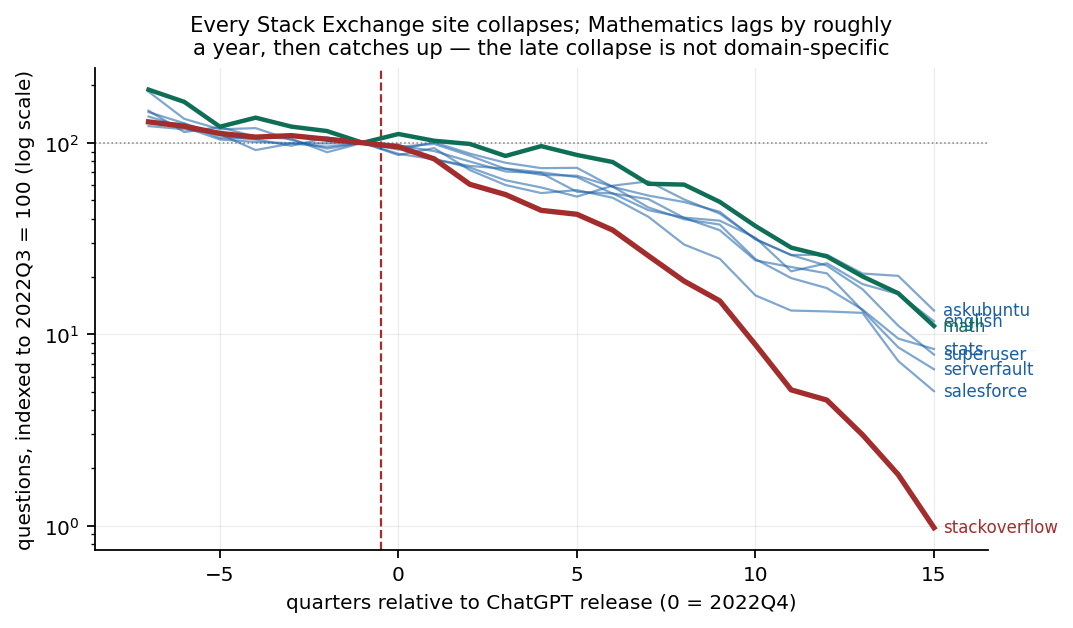
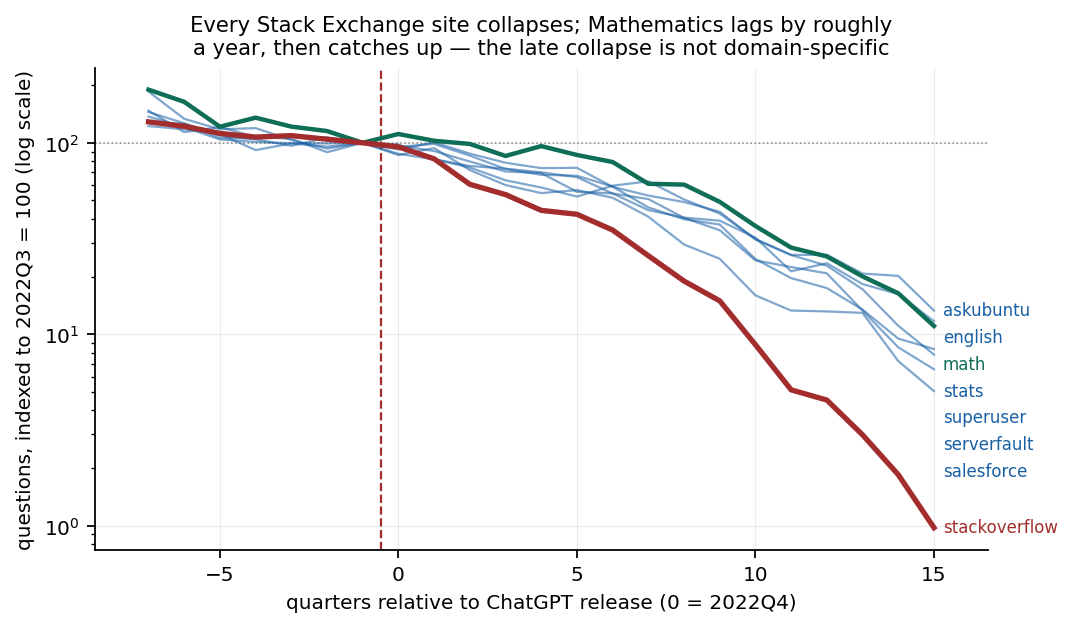
Audit pass 4: fix label overlap in log-scale trajectory figures (fig2, fig7)
All 9 figures now individually verified by visual inspection.
fig7: 7 of 8 site labels were stacked at y~10 and unreadable;
fig2: 6 of 11 domain labels stacked at y~1-2. Both now spread labels
in log10 space with enforced minimum gap.

Changed region(s): [[0.8611, 0.4841, 0.9842, 0.7564]]

diff --git a/src/figures_sites.py b/src/figures_sites.py
@@ -80,6 +80,7 @@ def fig_site_trajectories():
 
     fig, ax = plt.subplots(figsize=(6.8, 4.0))
     xs = rel.sort_index().values
+    entries = []
     for s in w.columns:
         y = w[s].values / w[s].values[base_idx] * 100
         is_so = s == "stackoverflow"
@@ -87,9 +88,22 @@ def fig_site_trajectories():
         ax.plot(xs, y, lw=2.4 if is_so else (2.0 if is_math else 1.0),
                 color=C_SO if is_so else ("#0F6E56" if is_math else C_OTHER),
                 alpha=1.0 if (is_so or is_math) else 0.55, zorder=4 if (is_so or is_math) else 3)
-        ax.annotate(s, (xs[-1], y[-1]), fontsize=7.5, xytext=(4, 0),
-                    textcoords="offset points", va="center",
-                    color=C_SO if is_so else ("#0F6E56" if is_math else C_OTHER))
+        entries.append({"site": s, "y": float(y[-1]),
+                        "color": C_SO if is_so else ("#0F6E56" if is_math else C_OTHER),
+                        "bold": is_so or is_math})
+    # 标签防重叠：除 stackoverflow 外所有站点末期都落在 5-12 的窄带里，
+    # 在 log10 空间自上而下强制最小间距。
+    entries.sort(key=lambda e: -np.log10(e["y"]))
+    min_gap = 0.14
+    lys = [np.log10(e["y"]) for e in entries]
+    for i in range(1, len(lys)):
+        if lys[i - 1] - lys[i] < min_gap:
+            lys[i] = lys[i - 1] - min_gap
+    for e, ly in zip(entries, lys):
+        ax.annotate(e["site"], (xs[-1], 10 ** ly), fontsize=7.5,
+                    xytext=(4, 0), textcoords="offset points",
+                    va="center", color=e["color"],
+                    weight="500" if e["bold"] else "400")
     ax.set_yscale("log")
     ax.axvline(-0.5, color=C_SO, lw=1.0, ls="--")
     ax.axhline(100, color=C_GRAY, lw=0.7, ls=":")

diff --git a/src/figures.py b/src/figures.py
@@ -66,6 +66,7 @@ def fig_trajectories():
     df = df.sort_values("t")
     fig, ax = plt.subplots(figsize=(9.6, 3.8))
     base = df[df["rel"] == -1].set_index("unit")["questions"]
+    entries = []
     for unit, g in df.groupby("unit"):
         grp = g["group"].iloc[0]
         y = g.sort_values("t")["questions"].values / float(base[unit]) * 100
@@ -73,8 +74,20 @@ def fig_trajectories():
         lw = 1.6 if grp == "MATURE" else 1.2
         ls = "-" if grp == "MATURE" else "--"
         ax.plot(x, y, ls, lw=lw, color=GROUP_COLOR[grp], alpha=0.85, label=None)
-        ax.text(x[-1] + 0.25, max(y[-1], 0.6), unit, fontsize=7,
-                color=GROUP_COLOR[grp])
+        entries.append({"unit": unit, "y": max(float(y[-1]), 0.6),
+                        "color": GROUP_COLOR[grp]})
+    # 标签防重叠：所有领域末期都跌到 1-2 附近，直接标注会全部叠在一起。
+    # 在 log10 空间自上而下强制最小间距。
+    entries.sort(key=lambda e: -np.log10(e["y"]))
+    min_gap = 0.16
+    lys = [np.log10(e["y"]) for e in entries]
+    for i in range(1, len(lys)):
+        if lys[i - 1] - lys[i] < min_gap:
+            lys[i] = lys[i - 1] - min_gap
+    x_end = df["rel"].max() + 0.3
+    for e, ly in zip(entries, lys):
+        ax.text(x_end, 10 ** ly, e["unit"], fontsize=7, va="center",
+                color=e["color"])
     ax.axvline(-0.5, color=C_TREAT, lw=1.0, ls="--")
     ax.axhline(100, color=C_GRAY, lw=0.7)
     ax.set_yscale("log")
